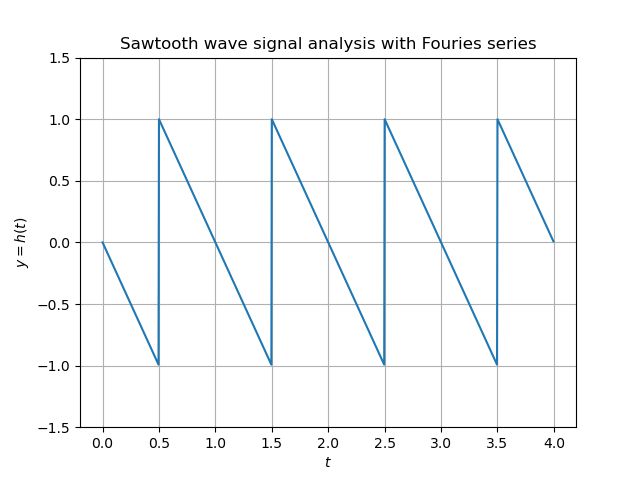
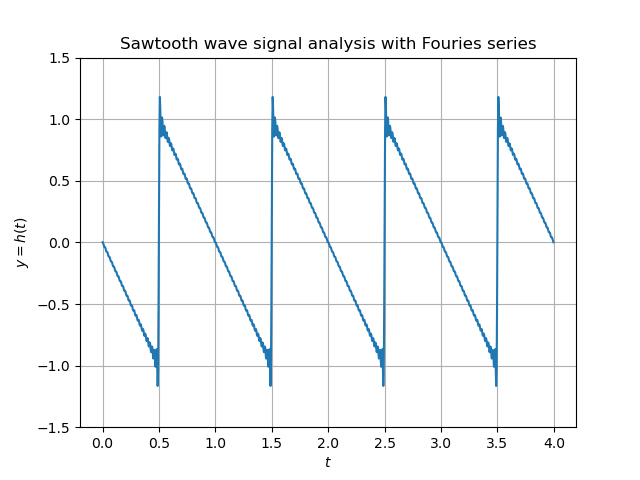
finalized eigenvalue and fft code

diff --git a/sawtooth-wave-fourier-series.py b/sawtooth-wave-fourier-series.py
@@ -1,7 +1,7 @@
 import matplotlib.pyplot as plt
 import numpy as np
 from scipy.integrate import simps
-from scipy import fftpack
+from scipy import fftpack, signal
 import os
 
 
@@ -23,12 +23,12 @@ def main():
     # Set the frequency of the sawtooth wave (e.g., 5 Hz).
     x = np.linspace(0, 1, samples, endpoint=False)
     y = falling_sawtooth_wave(t, frequency)
-    
+
     # Calculation of Co-efficients
     a0 = 2. / L * simps(y, x)
     an = lambda n: 2.0 / L * simps(y * np.cos(2. * np.pi * n * x / L), x)
     bn = lambda n: 2.0 / L * simps(y * np.sin(2. * np.pi * n * x / L), x)
-
+    print("a0", a0)
     # Sum of the series
     h = a0 / 2. + sum([an(k) * np.cos(2. * np.pi * k * x / L) + bn(k) * np.sin(2. * np.pi *
                                                                                k * x / L) for k in range(1, k + 1)])
@@ -39,7 +39,7 @@ def main():
     h4 = np.tile(h, 4)
 
     # Plot sawtooth wave
-    plt.plot(x4, h4)
+    plt.plot(x4, y4)
     plt.xlabel("$t$")
     plt.ylabel("$y=h(t)$")
     plt.title("Sawtooth wave signal analysis with Fouries series")
@@ -49,7 +49,7 @@ def main():
     plt.clf()
 
     # Plot fourier series expansion
-    plt.plot(x4, y4)
+    plt.plot(x4, h4)
     plt.xlabel("$t$")
     plt.ylabel("$y=h(t)$")
     plt.title("Sawtooth wave signal analysis with Fouries series")

diff --git a/three-mass-vibration-eigenvalue.py b/three-mass-vibration-eigenvalue.py
@@ -2,6 +2,7 @@ import matplotlib.pyplot as plt
 import numpy as np
 from numpy.linalg import inv
 from sympy import Matrix, symbols, solve
+import os
 
 
 def power_iteration(matrix, eigenvector, max_iterations=1000, tolerance=1e-10):
@@ -134,9 +135,13 @@ def main(algorithm):
     plt.title(algorithm + f': Output vs. time, x_i(0)={", ".join(map(lambda x: f"{x:.2f}", x0))} '
               f'\u03B3_i={", ".join(map(lambda x: f"{x:.2f}", gam))}')
     plt.legend()
-    plt.show()
+    plt.savefig(f'homework2-task2-plots/modal shapes-{algorithm}.png', format='png')
 
 
 if __name__ == '__main__':
+    # if the demo_folder directory is not present then create it
+    if not os.path.exists("homework2-task2-plots"):
+        os.makedirs("homework2-task2-plots")
+
     for alg in ["Shifted Power Method", "QR Algorithm"]:
         main(alg)
